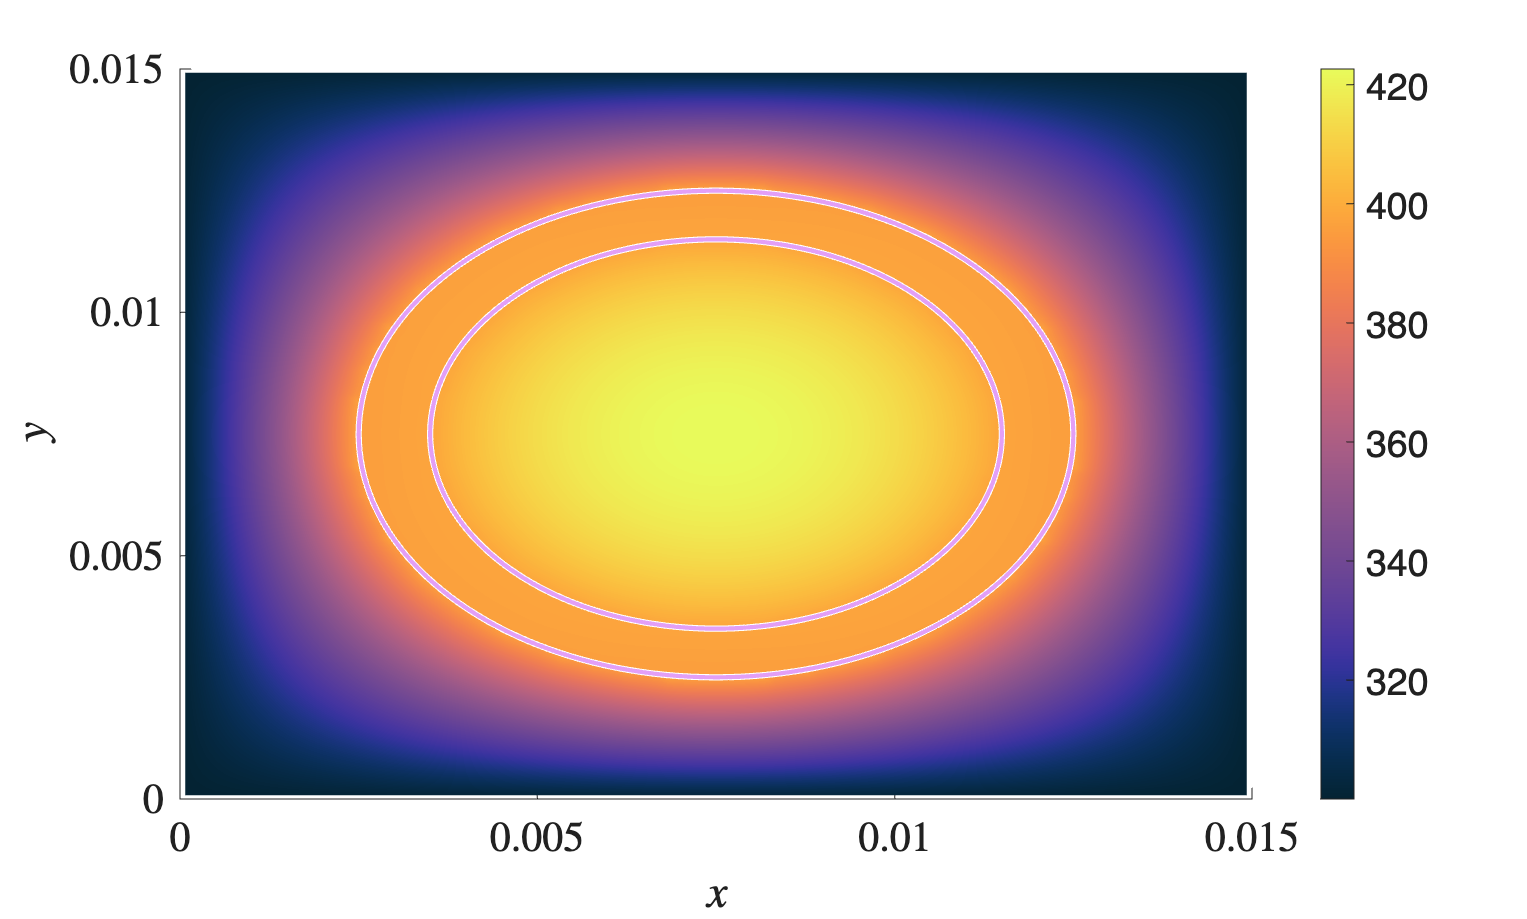
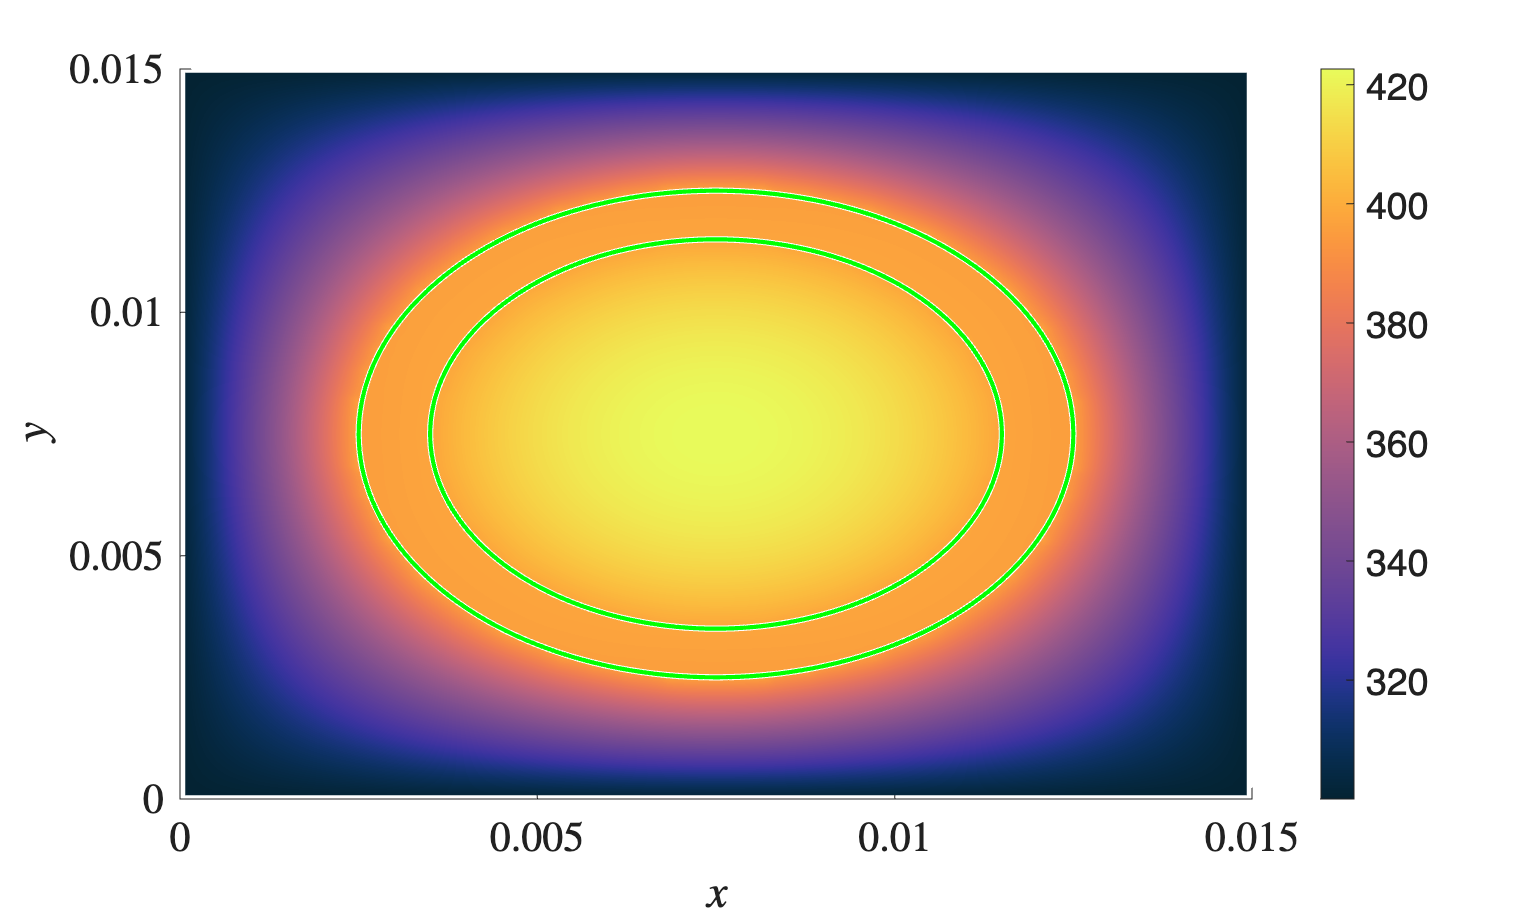
Final clean up before submission

diff --git a/HW2/Fuel_Rod/fuel_rod_plot.m b/HW2/Fuel_Rod/fuel_rod_plot.m
@@ -38,20 +38,20 @@ surf(X_NB,Y_NB,c_num_NB)
 colormap(cm)
 xlabel("$$x$$")
 ylabel("$$y$$")
-zlabel("$$C_{N}$$");
+zlabel("$$T(x,y)$$");
 view(3)
 colorbar()
 hold off
 saveas(f1, "Fuel_Rod_3D.png", 'png')
-
+%%
 f2 = figure(2);
 theme(f2,"light");
 hold on
 pcolor(X_NB,Y_NB,c_num_NB)
 shading interp
 colormap(cm)
-viscircles([0.015/2, 0.015/2], 0.004 ,'Color',[227/255,159/255,246/255])
-viscircles([0.015/2, 0.015/2], 0.005,'Color',[227/255,159/255,246/255])
+viscircles([0.015/2, 0.015/2], 0.004 ,'Color',[1/255,255/255,1/255])
+viscircles([0.015/2, 0.015/2], 0.005,'Color',[1/255,255/255,1/255])
 xlabel("$$x$$")
 ylabel("$$y$$")
 colorbar()

diff --git a/HW2/No_k/vis_no_k.m b/HW2/No_k/vis_no_k.m
@@ -50,7 +50,13 @@ title("Analytical Solution")
 colorbar()
 saveas(f, "HW2_Analytical_No_K.png", 'png')
 
+f = figure(3);
+theme(f,"light");
+surf(X_NB,Y_NB,abs(c_an_NB - c_num_NB))
+xlabel("x")
+ylabel("y")
+title("Local Error")
+colorbar()
+saveas(f, "HW2_Local_Err_No_K.png", 'png')
 
-%%
 
-err = max(max(abs(c_num_NB - c_an_NB)))/max(max(abs(c_an_NB)))

diff --git a/HW2/With_K_m/vis_k_m.m b/HW2/With_K_m/vis_k_m.m
@@ -54,5 +54,13 @@ title("Analytical Solution")
 colorbar()
 saveas(f, "HW2_Analytical_With_Km.png", 'png')
 
+f = figure(3);
+theme(f,"light");
+surf(X_NB,Y_NB,abs(c_an_NB - c_num_NB))
+xlabel("x")
+ylabel("y")
+title("Local Error")
+colorbar()
+saveas(f, "HW2_Local_Err_With_Km.png", 'png')
 
 
